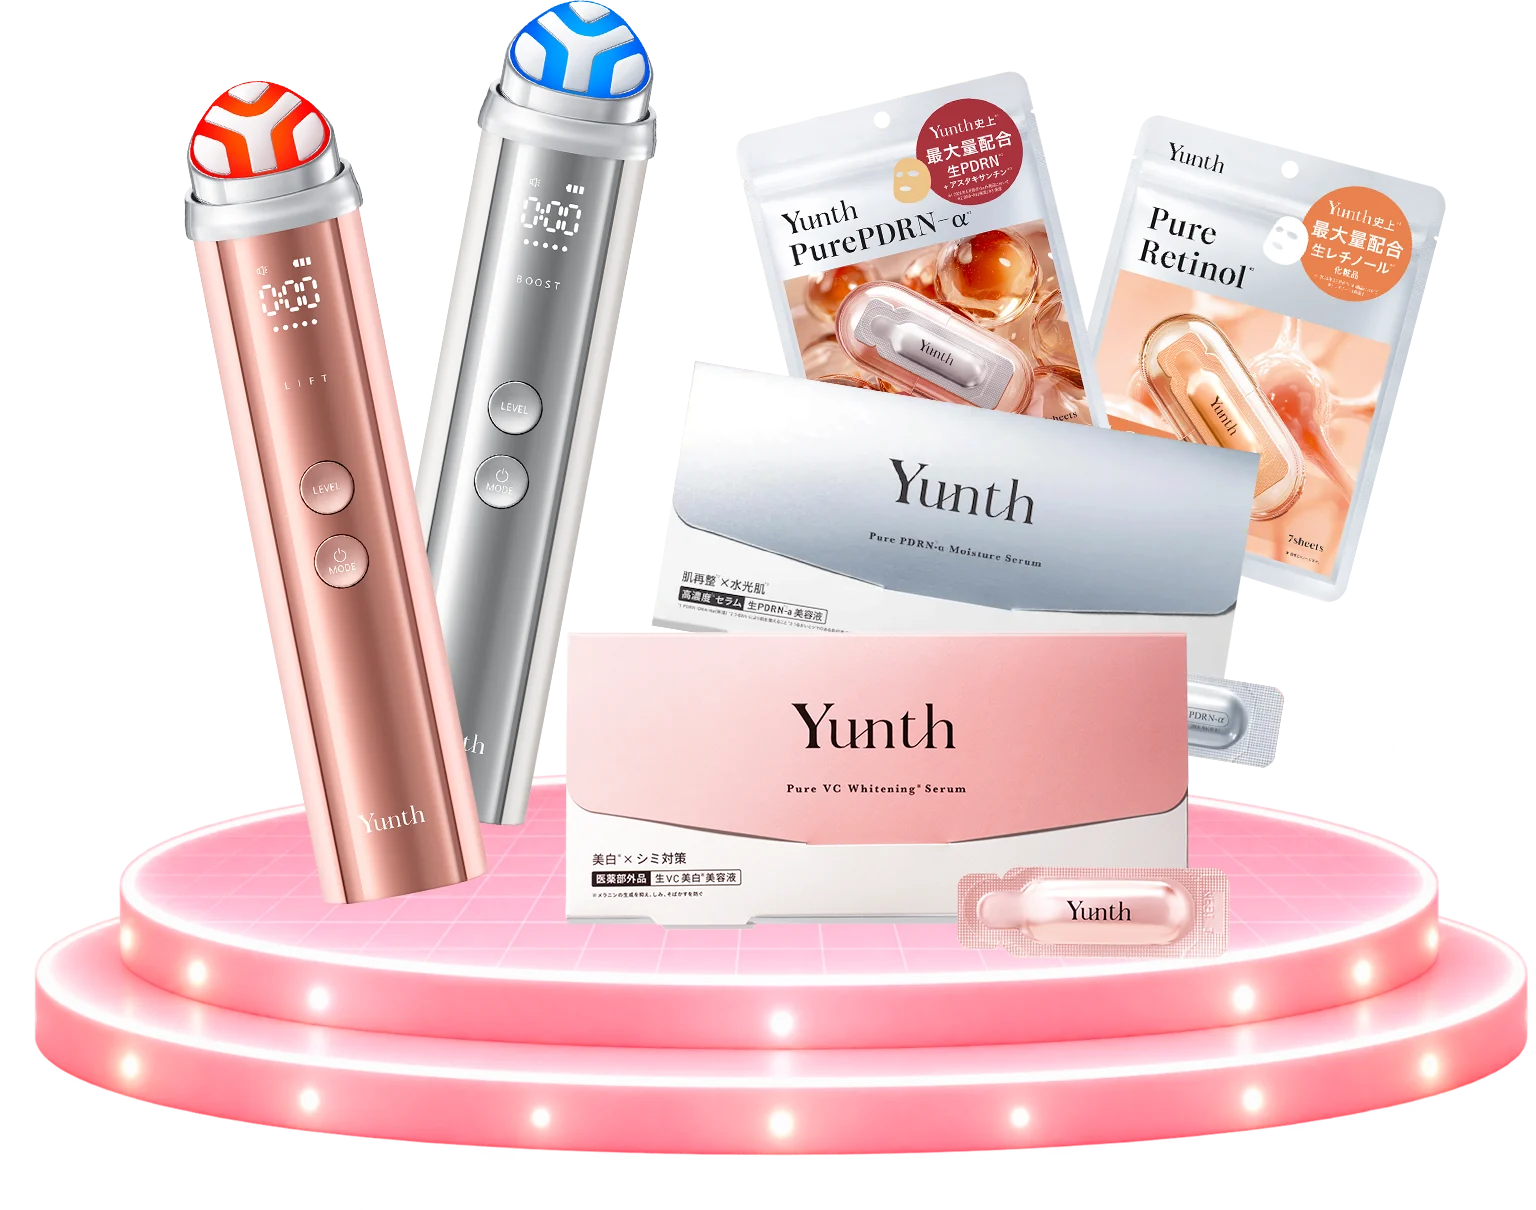
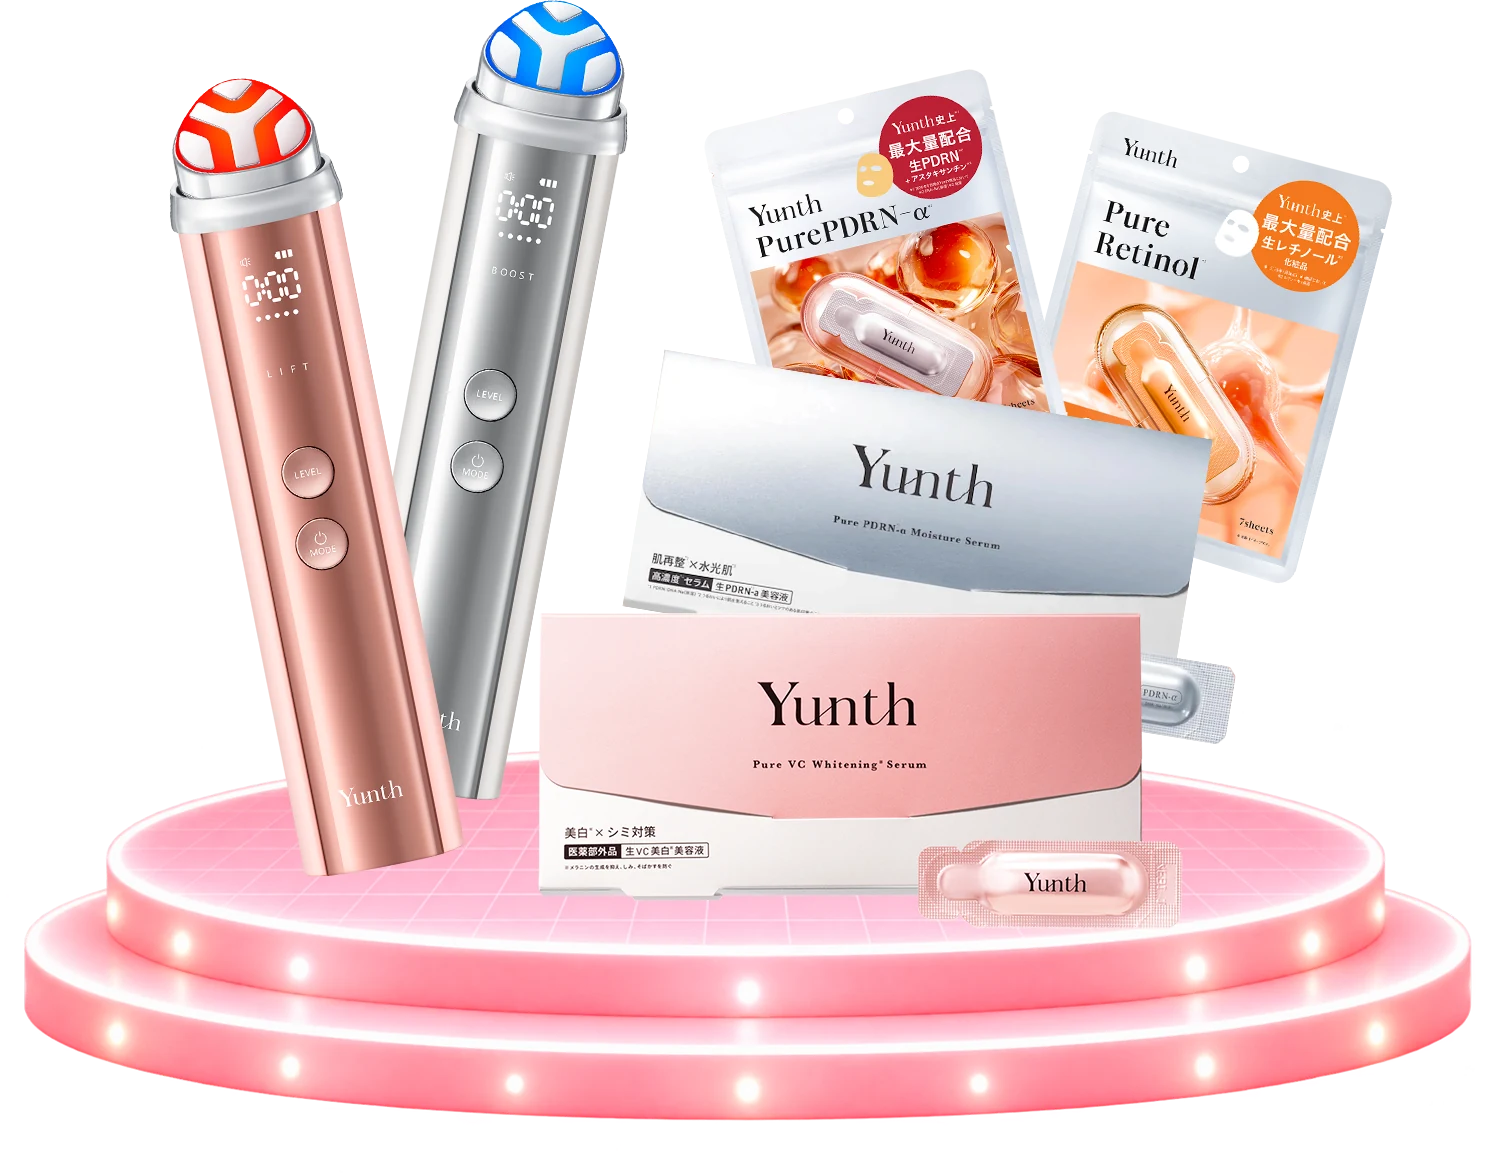
FV画像を差し替え

diff --git a/index-pink.html b/index-pink.html
@@ -938,7 +938,7 @@ main .pt-note{white-space:nowrap;font-size:min(12px,2.7vw);letter-spacing:0}
 
 <!-- ▼ FV: ピンクのステージに美顔器と美容液 -->
 <header class="fv">
-  <img class="fv-bg" src="images/fv-photo.webp" alt="Yunth 美顔器 Deep Boost、生VC美白美容液、生PDRN美容液、ピュアマスク" width="1536" height="1210">
+  <img class="fv-bg" src="images/fv-photo.webp?v=2" alt="Yunth 美顔器 Deep Boost、生VC美白美容液、生PDRN美容液、ピュアマスク" width="1489" height="1173">
 </header>
 </div>
 
